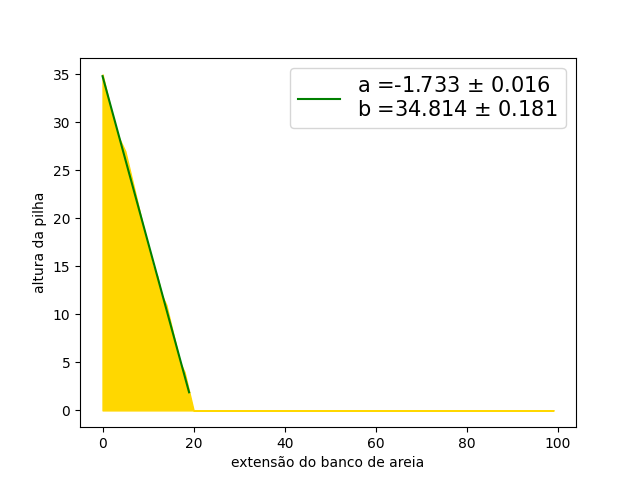
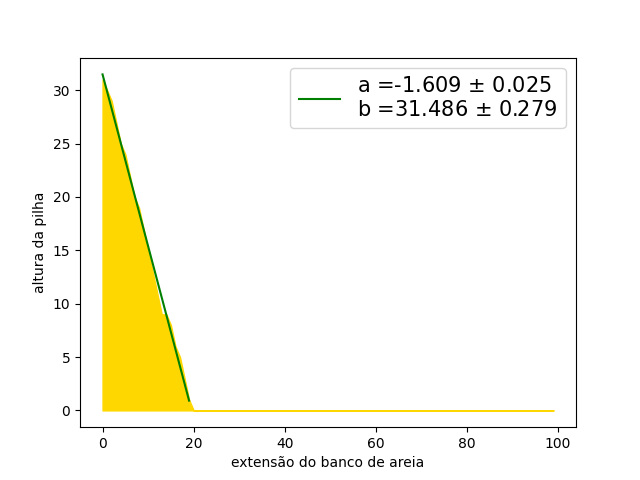
update

diff --git a/slopes.py b/slopes.py
@@ -20,11 +20,11 @@ x_p = np.arange(0,1,0.1)
 
 # slopes_Lg = [-1.755, -1.687, -1.698, -1.682,-1.682, -1.682, -1.701, -1.710 ]
 # slopes = [-1.723, -1.712, -1.709, -1.42, -1.21]
-s_p = [-1.719, -1.705,-1.62,-1.73 ,-1.49,-1.544,-1.35,-1.38,-1.39,-1.4]
+s_p = [-1.719, -1.705,-1.62,-1.73 ,-1.49,-1.544,-1.35,-1.38,-1.39,-1.37]
 
 # errory_Lg =  [0.005, 0.003, 0.004, 0.003,0.002, 0.003, 0.001, 0.004]
 # errory = [0.002, 0.003, 0.009, 0.06,0.06]
-errory_p = [0.004, 0.007, 0.02, 0.02, 0.04, 0.05, 0.03, 0.08, 0.06, 0.2]
+errory_p = [0.004, 0.007, 0.02, 0.02, 0.04, 0.05, 0.03, 0.08, 0.06, 0.12]
 
 
 def slope_graph(x,y, erry, save_path:str, x_label:str, y_lim:bool):
@@ -52,6 +52,6 @@ def slope_graph(x,y, erry, save_path:str, x_label:str, y_lim:bool):
     plt.savefig(save_path)
     return plt.show()
 
-para_P = slope_graph(x_p,s_p, errory_p,'Slopep.pdf', 'p', True)
+para_P = slope_graph(x_p,s_p, errory_p,'Slopep.png', 'p', True)
 # para_L = slope_graph(x_L,slopes_Lg,errory_Lg, 'SlopeL.pdf', 'L', True)
 # para_L = slope_graph(x_grãos,slopes_Lg,errory_Lg, 'Slopeg.pdf', 'grãos', True)

diff --git a/sandpile.py b/sandpile.py
@@ -38,7 +38,7 @@ grao_final = 10000
 deslizamento = 0 
 
 #valor da constante p
-p = 0.9 
+p = 0.3 
 
 energia = np.zeros(grao_final+1)
 
